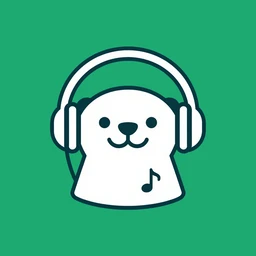
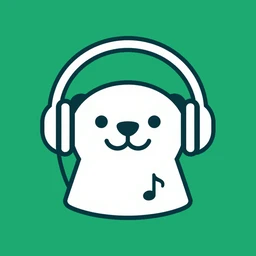
style: 修复应用图标比例、更名树懒音乐并调整播放页箭头
- 应用图标前景按画布 45.8% 重绘，修复桌面图标偏小；同步 web 侧 icon/favicon/webp
- 应用名改为「树懒音乐」（strings.xml / capacitor.config / index.html）
- 媒体通知无封面时回退应用图标，smallIcon 换为透明资源以隐藏右下角角标
- 播放页收起箭头改用 ChevronDown size-7：Button 的 [&_svg:not([class*='size-'])]:size-4
  会把 h-*/w-* 的子图标钳成 16px，必须用 size-* 才能生效

Changed region(s): [[0.1562, 0.125, 0.8438, 0.875], [0.375, 0.4375, 0.625, 0.5938]]

diff --git a/index.html b/index.html
@@ -6,8 +6,8 @@
       name="viewport"
       content="width=device-width, initial-scale=1, maximum-scale=1, viewport-fit=cover"
     />
-    <title>otter-music</title>
-    <meta name="description" content="水獭音乐 - 开源免费音乐播放器" />
+    <title>树懒音乐</title>
+    <meta name="description" content="树懒音乐 - 开源免费音乐播放器" />
     <!-- 基础 OG：供微信/QQ 等不执行 JS 的爬虫抓取 -->
     <meta property="og:title" content="Otter Music" />
     <meta property="og:description" content="开源免费音乐播放器" />

diff --git a/src/components/FullScreenPlayer.tsx b/src/components/FullScreenPlayer.tsx
@@ -411,7 +411,7 @@ export function FullScreenPlayer({
               onClose();
             }}
           >
-            <ChevronDown className="h-6 w-6" />
+            <ChevronDown className="size-7" strokeWidth={1.5} />
           </Button>
         </div>
         <div className="flex justify-center">

diff --git a/capacitor.config.ts b/capacitor.config.ts
@@ -2,7 +2,7 @@ import type { CapacitorConfig } from "@capacitor/cli";
 
 const config: CapacitorConfig = {
   appId: "com.otterhub.music",
-  appName: "Otter Music",
+  appName: "树懒音乐",
   webDir: "dist",
   plugins: {
     SystemBars: {
